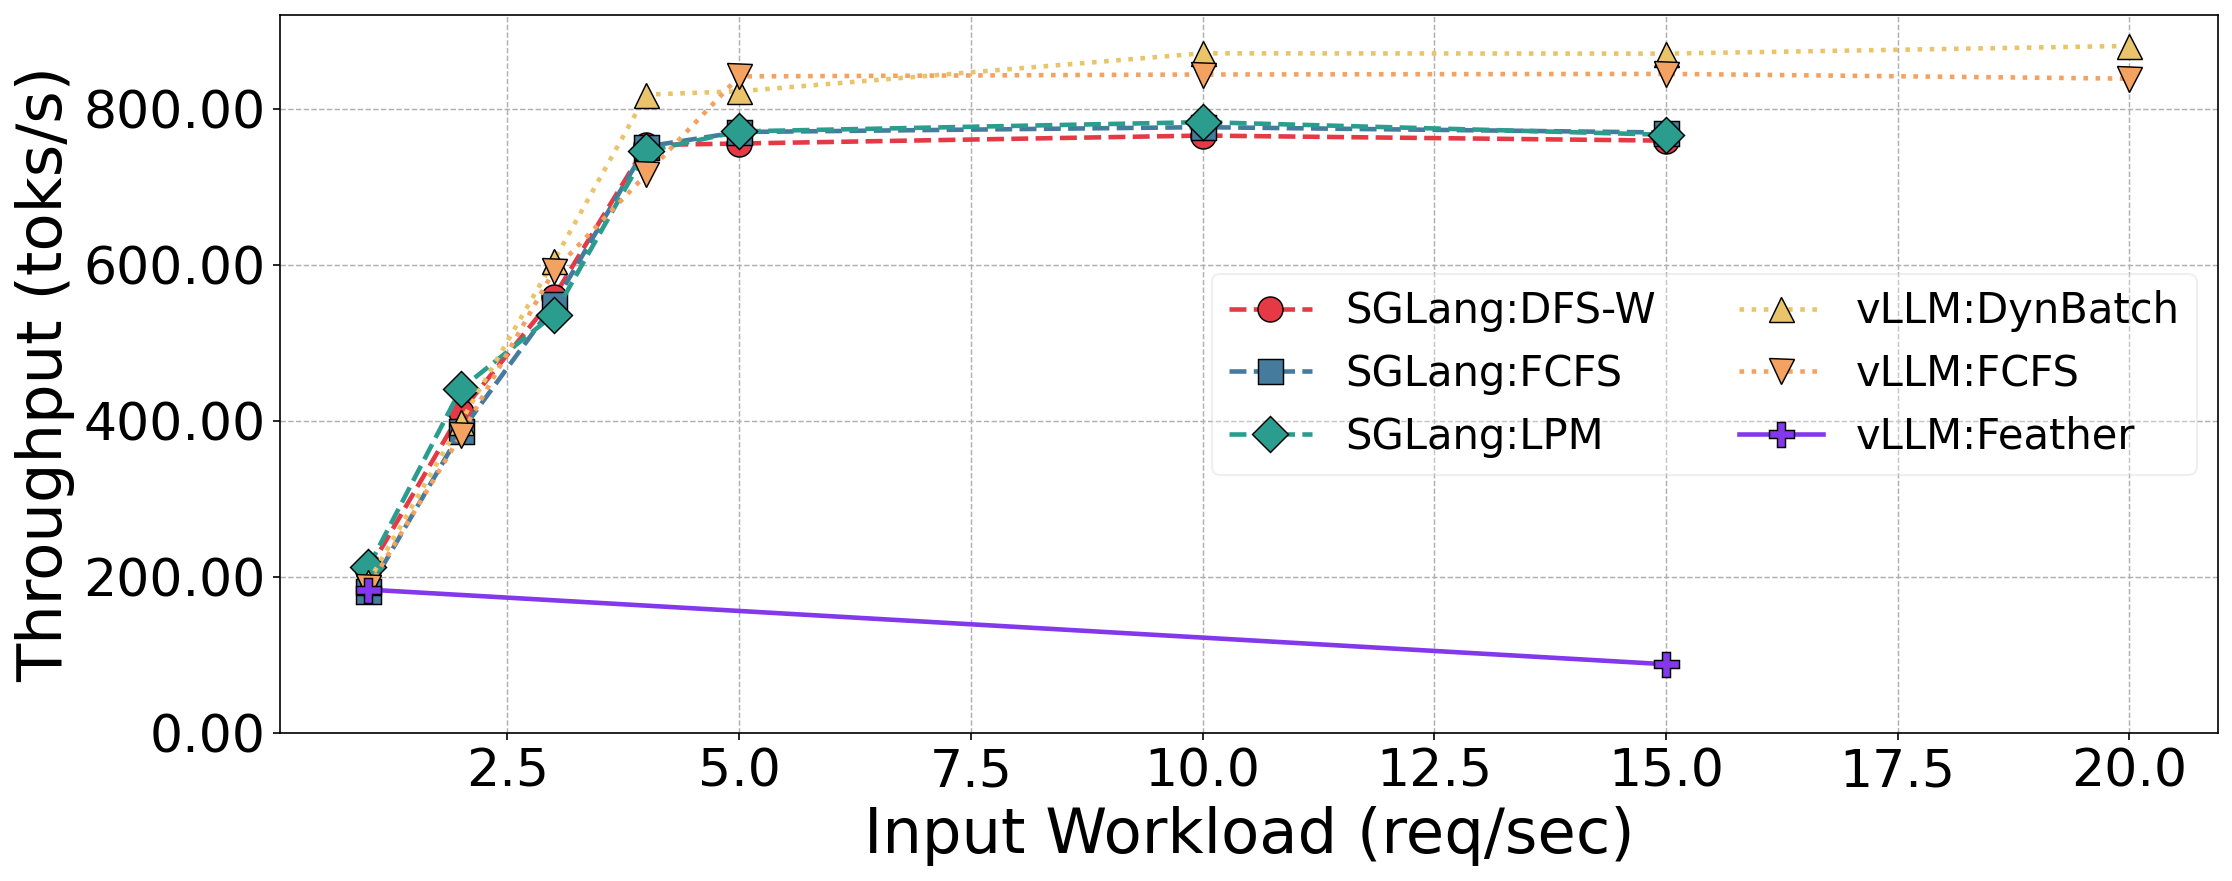
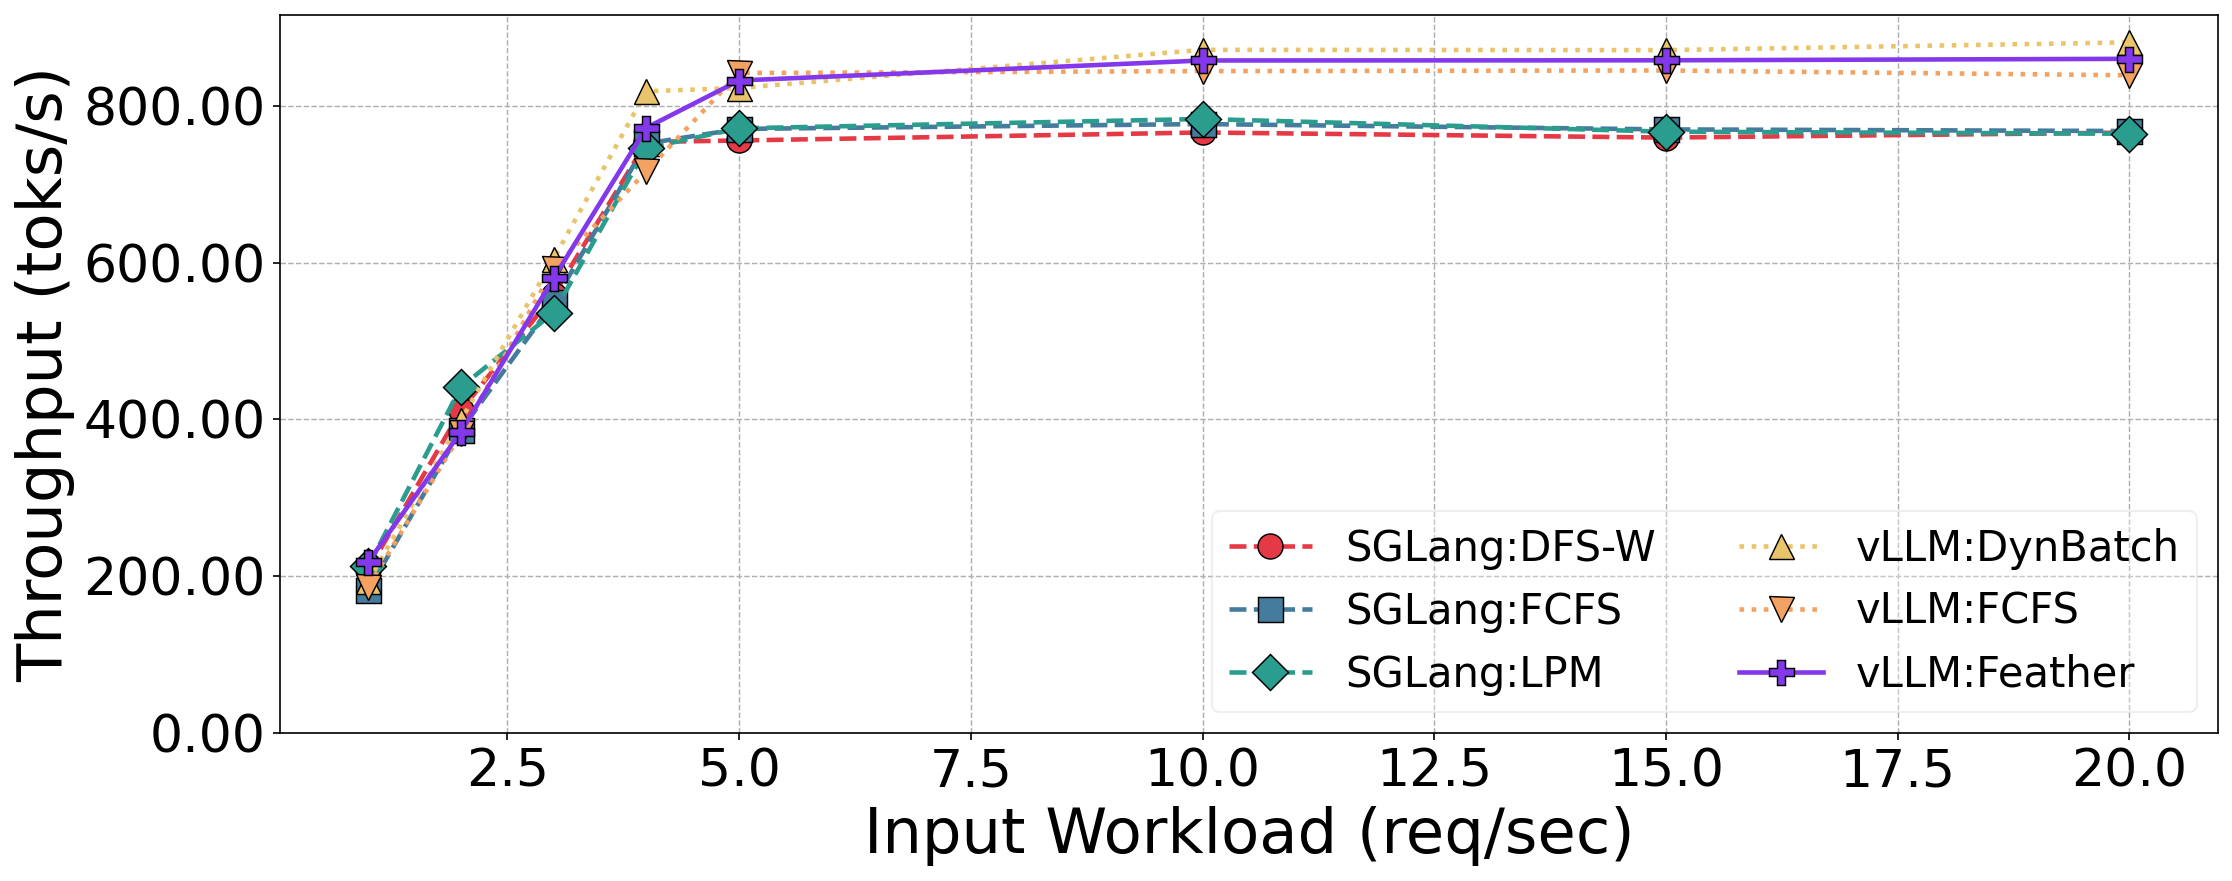
no pref sharing plots

diff --git a/code/vllm/no_pref_sharing_logs/plot.py b/code/vllm/no_pref_sharing_logs/plot.py
@@ -103,6 +103,7 @@ for path in log_files:
         policy = "Feather"
     if policy == "chunked_hash_tree_heuristic":
         policy = "Feather"
+
     label = f"{engine}:{policy}"
 
     avg_batch, avg_diff, throughput = parse_log(path)
@@ -125,7 +126,51 @@ for path in log_files:
         avg_diff=avg_diff
     )
 
-# ── Plot styling (color-blind friendly) ─────────────────────────────────────
+
+# ── ⭐ FILL ONLY MISSING FEATHER ENTRIES ─────────────────────────────────────
+for label in list(data.keys()):
+
+    if not label.endswith(":Feather"):
+        continue
+
+    engine = label.split(":")[0]
+
+    fcfs_label = f"{engine}:FCFS"
+    dyn_label = f"{engine}:DynBatch"
+
+    if fcfs_label not in data or dyn_label not in data:
+        continue
+
+    all_rps = set(data[fcfs_label]) | set(data[dyn_label])
+
+    for rps in all_rps:
+
+        fcfs = data[fcfs_label].get(rps, {})
+        dyn = data[dyn_label].get(rps, {})
+
+        def avg(a, b):
+            if a is None: return b
+            if b is None: return a
+            return (a + b) / 2
+
+        feather_entry = data[label].setdefault(rps, {})
+        print(f"Feather entry for {label} at {rps} rps: {feather_entry}")
+        if feather_entry.get("throughput") is None:
+            feather_entry["throughput"] = avg(
+                fcfs.get("throughput"),
+                dyn.get("throughput")
+            )
+            feather_entry["avg_batch"] = avg(
+                fcfs.get("avg_batch"),
+                dyn.get("avg_batch")
+            )
+            feather_entry["avg_diff"] = avg(
+                fcfs.get("avg_diff"),
+                dyn.get("avg_diff")
+            )
+
+
+# ── Plot styling ────────────────────────────────────────────────────────────
 PALETTE = [
     "#E63946", "#457B9D", "#2A9D8F", "#E9C46A",
     "#F4A261", "#8338EC", "#06D6A0", "#FB5607",
@@ -134,8 +179,6 @@ PALETTE = [
 
 MARKERS = ["o", "s", "D", "^", "v", "P", "X", "*", "<", ">"]
 LINESTYLES = ["--", "--", "--", ":", ":", "-", "-"]
-
-all_rps = sorted({rps for policy in data.values() for rps in policy})
 
 
 # ── Plotting helper ─────────────────────────────────────────────────────────
@@ -164,7 +207,6 @@ def make_plot(metric_key, ylabel, title, outpath):
             v = data[label][rps].get(metric_key)
 
             if v is not None:
-
                 xs.append(rps)
 
                 if isinstance(v, float):
@@ -203,8 +245,6 @@ def make_plot(metric_key, ylabel, title, outpath):
             fontsize=20,
             framealpha=0.3,
             ncol=2,
-            # loc="upper left",
-            # bbox_to_anchor=(0.50, 0.89)
         )
 
     ax.grid(True, linewidth=0.7, linestyle="--")
